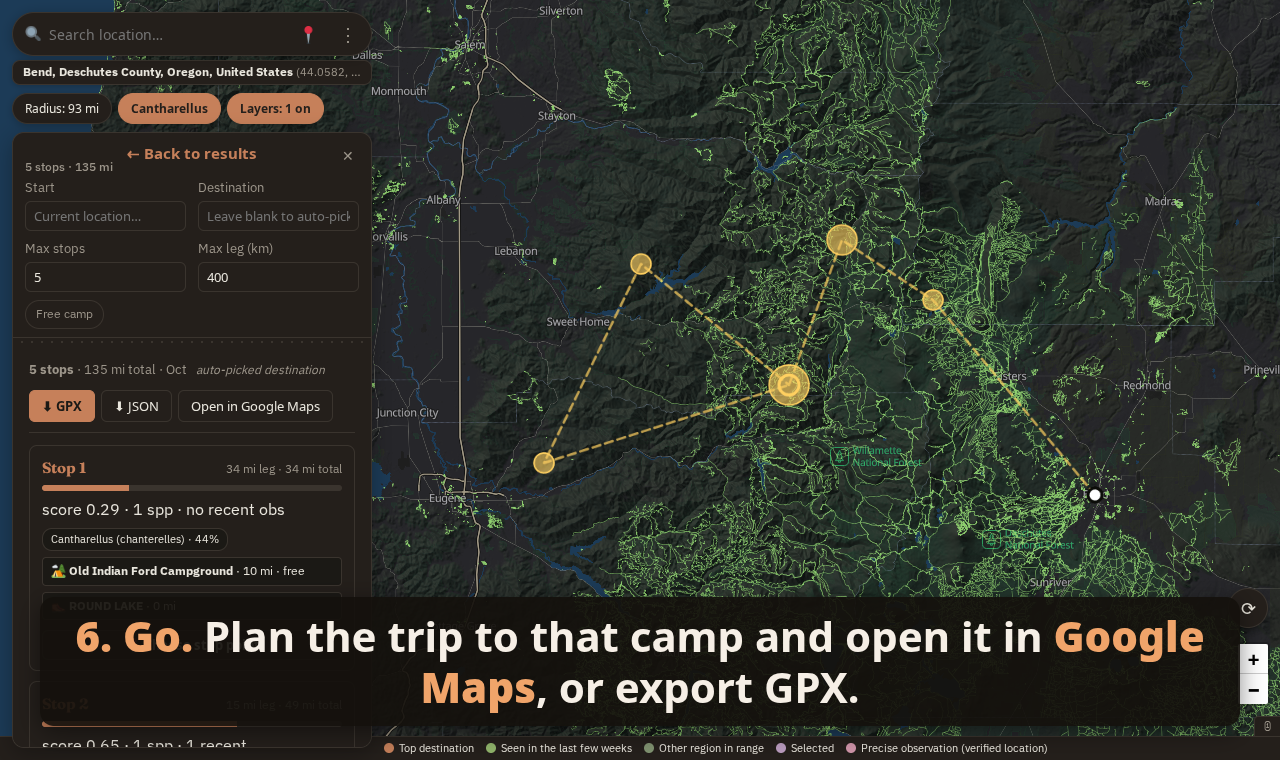
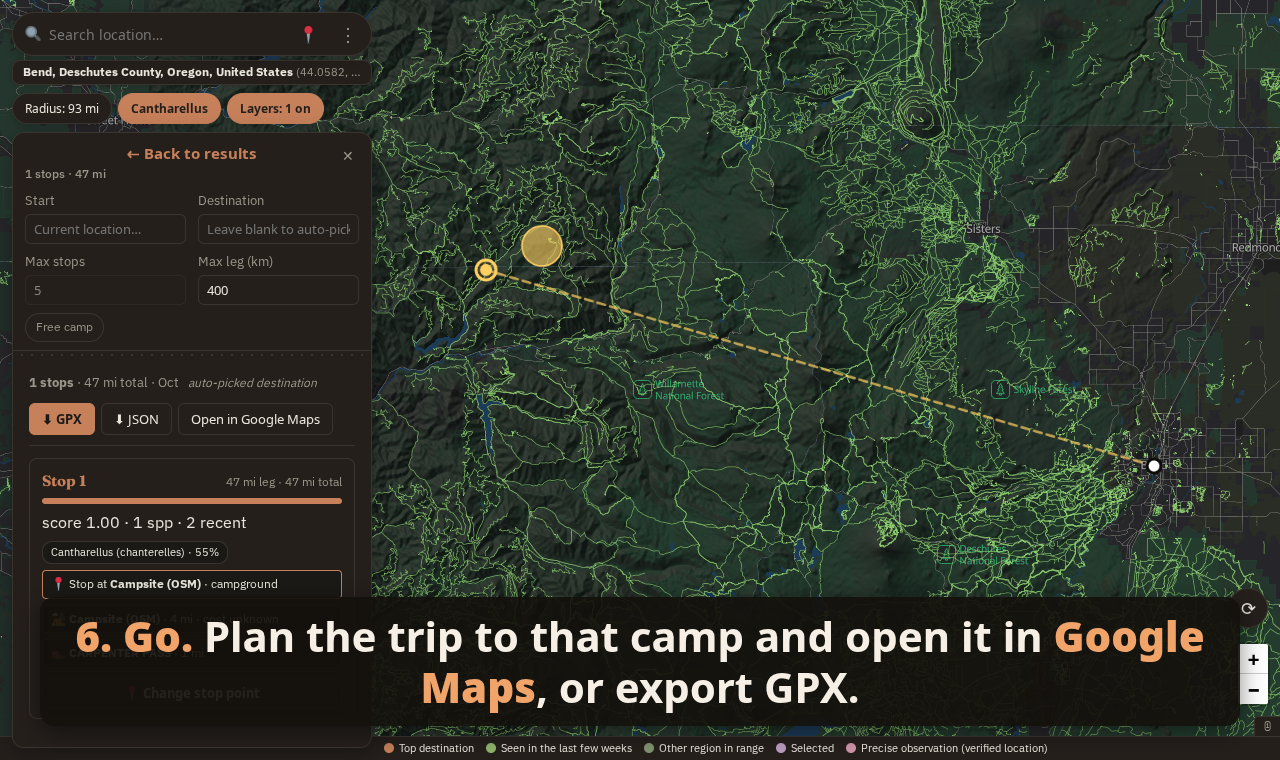
docs(tutorials): don't toggle the pinned stop back out of the trip
Pinning a campground already adds its destination to the trip, so the
track-down walkthrough's following "+ Plan" click removed it again and
the planner auto-picked a 5-stop trip. Only click + Plan when the spot
isn't already in the route; re-record track-down (GIF + Reel).

diff --git a/docs/tutorials/record.py b/docs/tutorials/record.py
@@ -434,7 +434,13 @@ def track_down(tut: Tutorial) -> None:
     pin.wait_for(timeout=10_000)
     tut.click(pin, pause=1.0)
     tut.click(page.locator("#panel .details-back"), pause=1.2)
-    tut.click(page.locator("#panel .rank").first.locator('[data-act="plan"]'), pause=0.8)
+    # Pinning a camp already adds the spot to the trip ("✓ In route"); clicking + Plan again
+    # would toggle it back out and leave the planner to auto-pick a trip instead.
+    plan_button = page.locator("#panel .rank").first.locator('[data-act="plan"]')
+    if "In route" in plan_button.inner_text():
+        tut.point(plan_button)
+    else:
+        tut.click(plan_button, pause=0.8)
     tut.click(page.locator("#route-bar .route-bar-go"), pause=1.0)
     page.locator("#panel .stop-card").first.wait_for(timeout=60_000)
     time.sleep(2.5)
